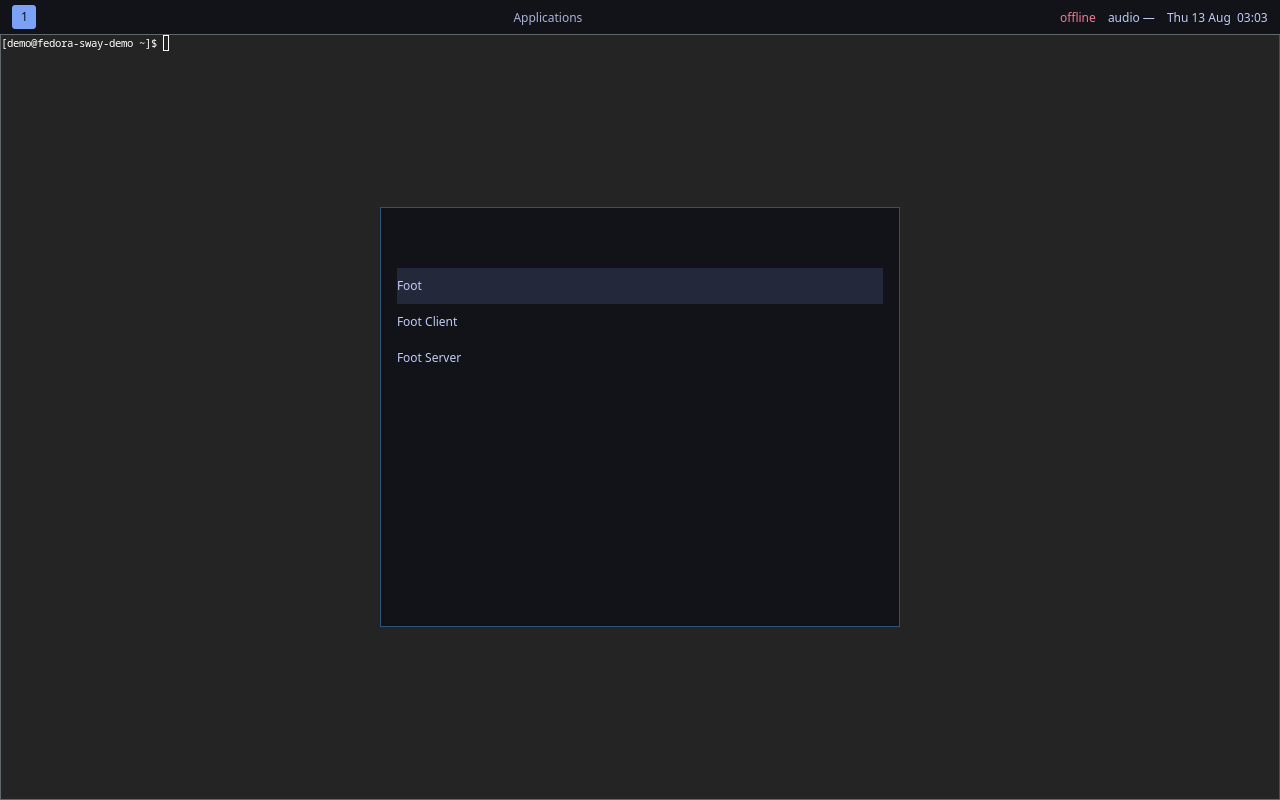
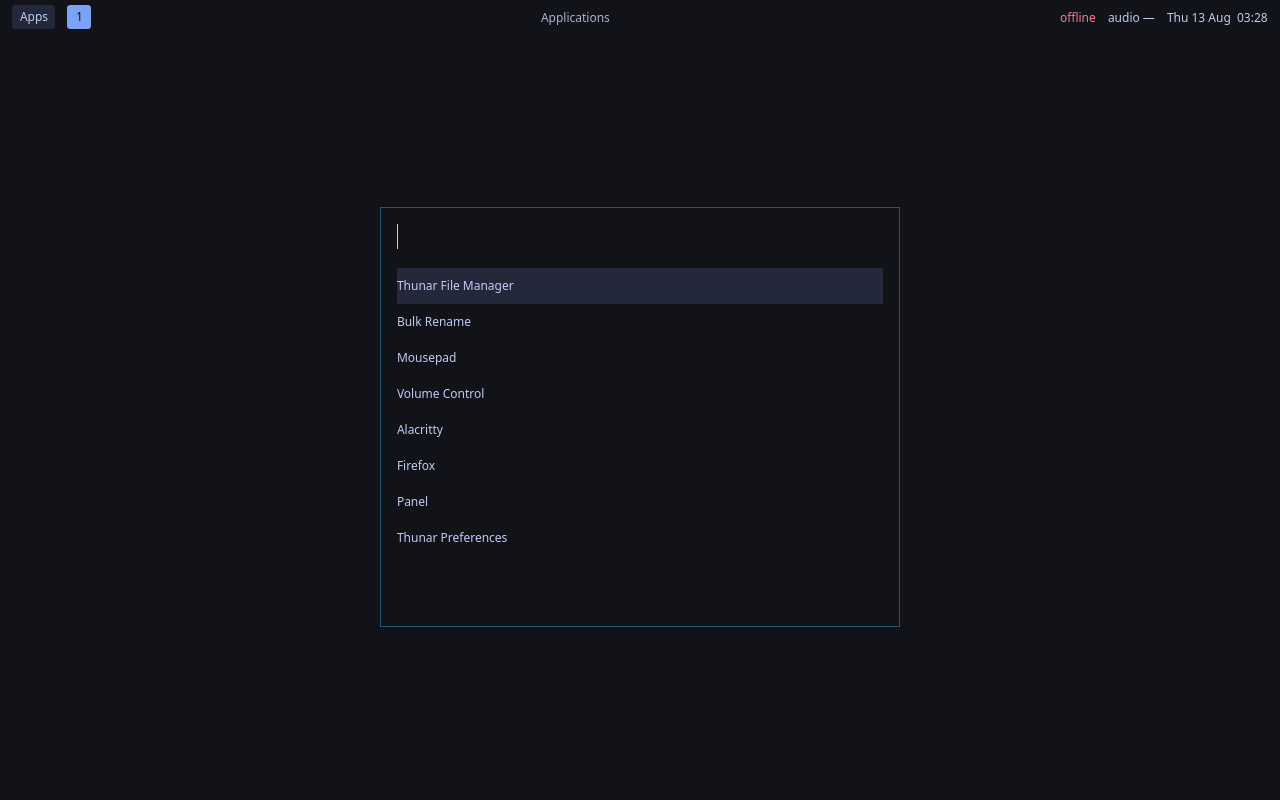
feat: add conventional workstation app set

diff --git a/config/quickshell/components/Launcher.qml b/config/quickshell/components/Launcher.qml
@@ -11,6 +11,11 @@ FloatingWindow {
     implicitHeight: 420
     color: "#111318"
 
+    function toggle(): void {
+        root.visible = !root.visible
+        if (root.visible) { search.text = ""; root.rebuild(); search.forceActiveFocus() }
+    }
+
     function rebuild(): void {
         const needle = search.text.toLowerCase()
         apps.values = DesktopEntries.applications.values.filter(entry =>
@@ -19,10 +24,7 @@ FloatingWindow {
 
     IpcHandler {
         target: "launcher"
-        function toggle(): void {
-            root.visible = !root.visible
-            if (root.visible) { search.text = ""; root.rebuild(); search.forceActiveFocus() }
-        }
+        function toggle(): void { root.toggle() }
     }
 
     ScriptModel { id: apps; values: DesktopEntries.applications.values }

diff --git a/config/quickshell/components/Bar.qml b/config/quickshell/components/Bar.qml
@@ -5,6 +5,7 @@ import Quickshell.I3
 
 PanelWindow {
     id: root
+    signal launcherRequested()
     anchors { top: true; left: true; right: true }
     implicitHeight: 34
     color: "#111318"
@@ -27,6 +28,14 @@ PanelWindow {
         anchors.leftMargin: 12
         anchors.rightMargin: 12
         spacing: 12
+        Rectangle {
+            implicitWidth: appsText.implicitWidth + 14
+            implicitHeight: 24
+            radius: 3
+            color: "#24283b"
+            Text { id: appsText; anchors.centerIn: parent; text: "Apps"; color: "#c0caf5" }
+            MouseArea { anchors.fill: parent; onClicked: root.launcherRequested() }
+        }
         WorkspaceList {}
         Text {
             Layout.fillWidth: true
@@ -41,4 +50,3 @@ PanelWindow {
         Clock {}
     }
 }
-

diff --git a/config/quickshell/shell.qml b/config/quickshell/shell.qml
@@ -5,9 +5,13 @@ import "components"
 ShellRoot {
     Variants {
         model: Quickshell.screens
-        Bar { required property var modelData; screen: modelData }
+        Bar {
+            required property var modelData
+            screen: modelData
+            onLauncherRequested: launcher.toggle()
+        }
     }
-    Launcher {}
+    Launcher { id: launcher }
     Osd {}
     Notifications {}
 }

diff --git a/docs/DEPENDENCIES.md b/docs/DEPENDENCIES.md
@@ -15,11 +15,15 @@ transitive RPM dependencies are intentionally omitted.
 | `upower` | Event-driven power and battery state. | Direct sysfs polling would add custom hardware logic. |
 | `polkit`, `lxqt-policykit` | System authorization and an independent maintained graphical agent. | Quickshell's agent support is deliberately excluded from the critical path. |
 | `xorg-x11-server-Xwayland` | Compatibility for X11-only applications. | Pure Wayland cannot meet the XWayland acceptance criterion. |
-| `foot` | Small native Wayland terminal and recovery surface. | A heavier terminal brings no v0.1 advantage. |
+| `alacritty` | Conventional GPU-accelerated terminal and recovery surface, selected for a familiar single launcher entry. | Foot is smaller and Wayland-native but exposed confusing client/server launcher entries; Kitty and WezTerm add broader feature surfaces. |
 | `grim`, `slurp` | Wayland screenshot capture and region selection. | Portal screenshots alone are awkward for keybindings. |
 | `wl-clipboard` | Wayland clipboard CLI and screenshot-to-clipboard support. | Quickshell clipboard access requires focus and is unsuitable as the general clipboard mechanism. |
 | `brightnessctl` | Bounded backlight adjustment when supported by hardware. | Direct sysfs writes would require custom permission handling. |
 | `libnotify` | Supplies `notify-send` for testing and user feedback. | A bespoke D-Bus sender would be less readable. |
+| `firefox` | Normal browser workload and the primary interactive portal/screen-sharing test client. | A browser is required to validate workstation behavior; adding several would not improve v0.1. |
+| `Thunar`, `mousepad` | Lightweight conventional file manager and graphical text editor. | Larger desktop suites are outside scope. |
+| `pavucontrol` | Maintained graphical PipeWire/PulseAudio diagnostic and control surface. | The shell widget remains intentionally small and is not an audio routing UI. |
+| `imv` | Small Wayland-capable image viewer for screenshots and local images. | Browser-only viewing would weaken the basic offline application set. |
 
 BlueZ packages are optional because neither VMs nor all laptops expose a
 Bluetooth adapter.

diff --git a/README.md b/README.md
@@ -61,10 +61,11 @@ exec dbus-run-session sway
 The default terminal binding is `Super+Enter`; the launcher is `Super+D`.
 `Super+Shift+R` restarts Quickshell without restarting Sway.
 
-Inside a Wayland VM viewer, the host compositor may consume `Super` and other
-modifier combinations. The demo also provides `F9` for the terminal, `F10` for
-the launcher, `F11` to restart Quickshell, and `F12` to lock. Click once inside
-the display to focus it; virt-manager's default release chord is `Ctrl+Alt`.
+Inside a Wayland VM viewer, the host compositor may consume `Super`. No
+conflict-free keyboard fallback proved reliable with this VNC backend: F9 is
+host dictation, F10 is GTK's menubar, and `Ctrl+Alt` releases the viewer. Use
+the clickable `Apps` button in the bar to open the launcher without keyboard
+capture. No host/viewer shortcut is reassigned by the demo.
 
 Run `./doctor.sh` inside the graphical session. It distinguishes installed
 software from active processes, services, D-Bus integration, and checks that
